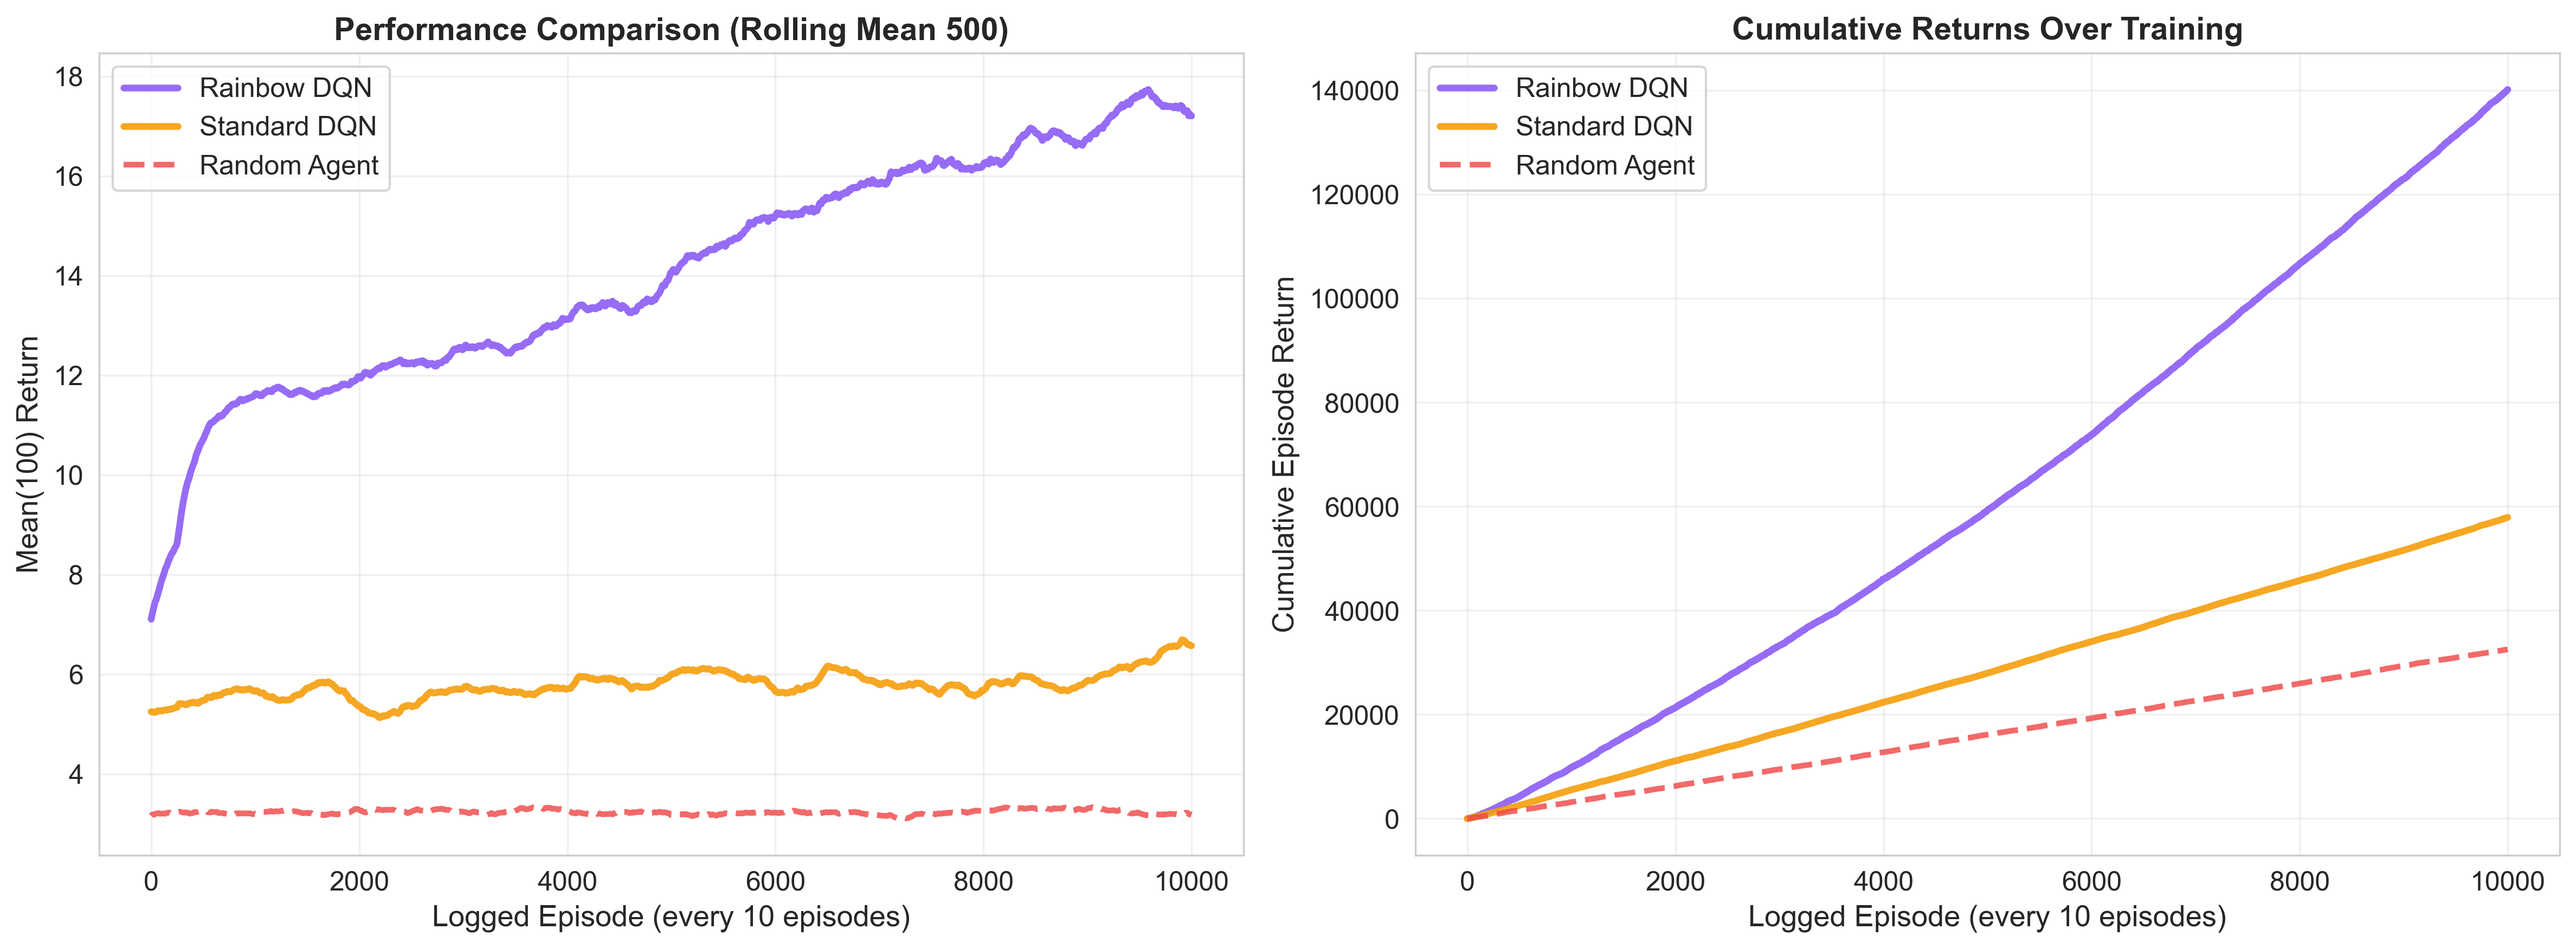
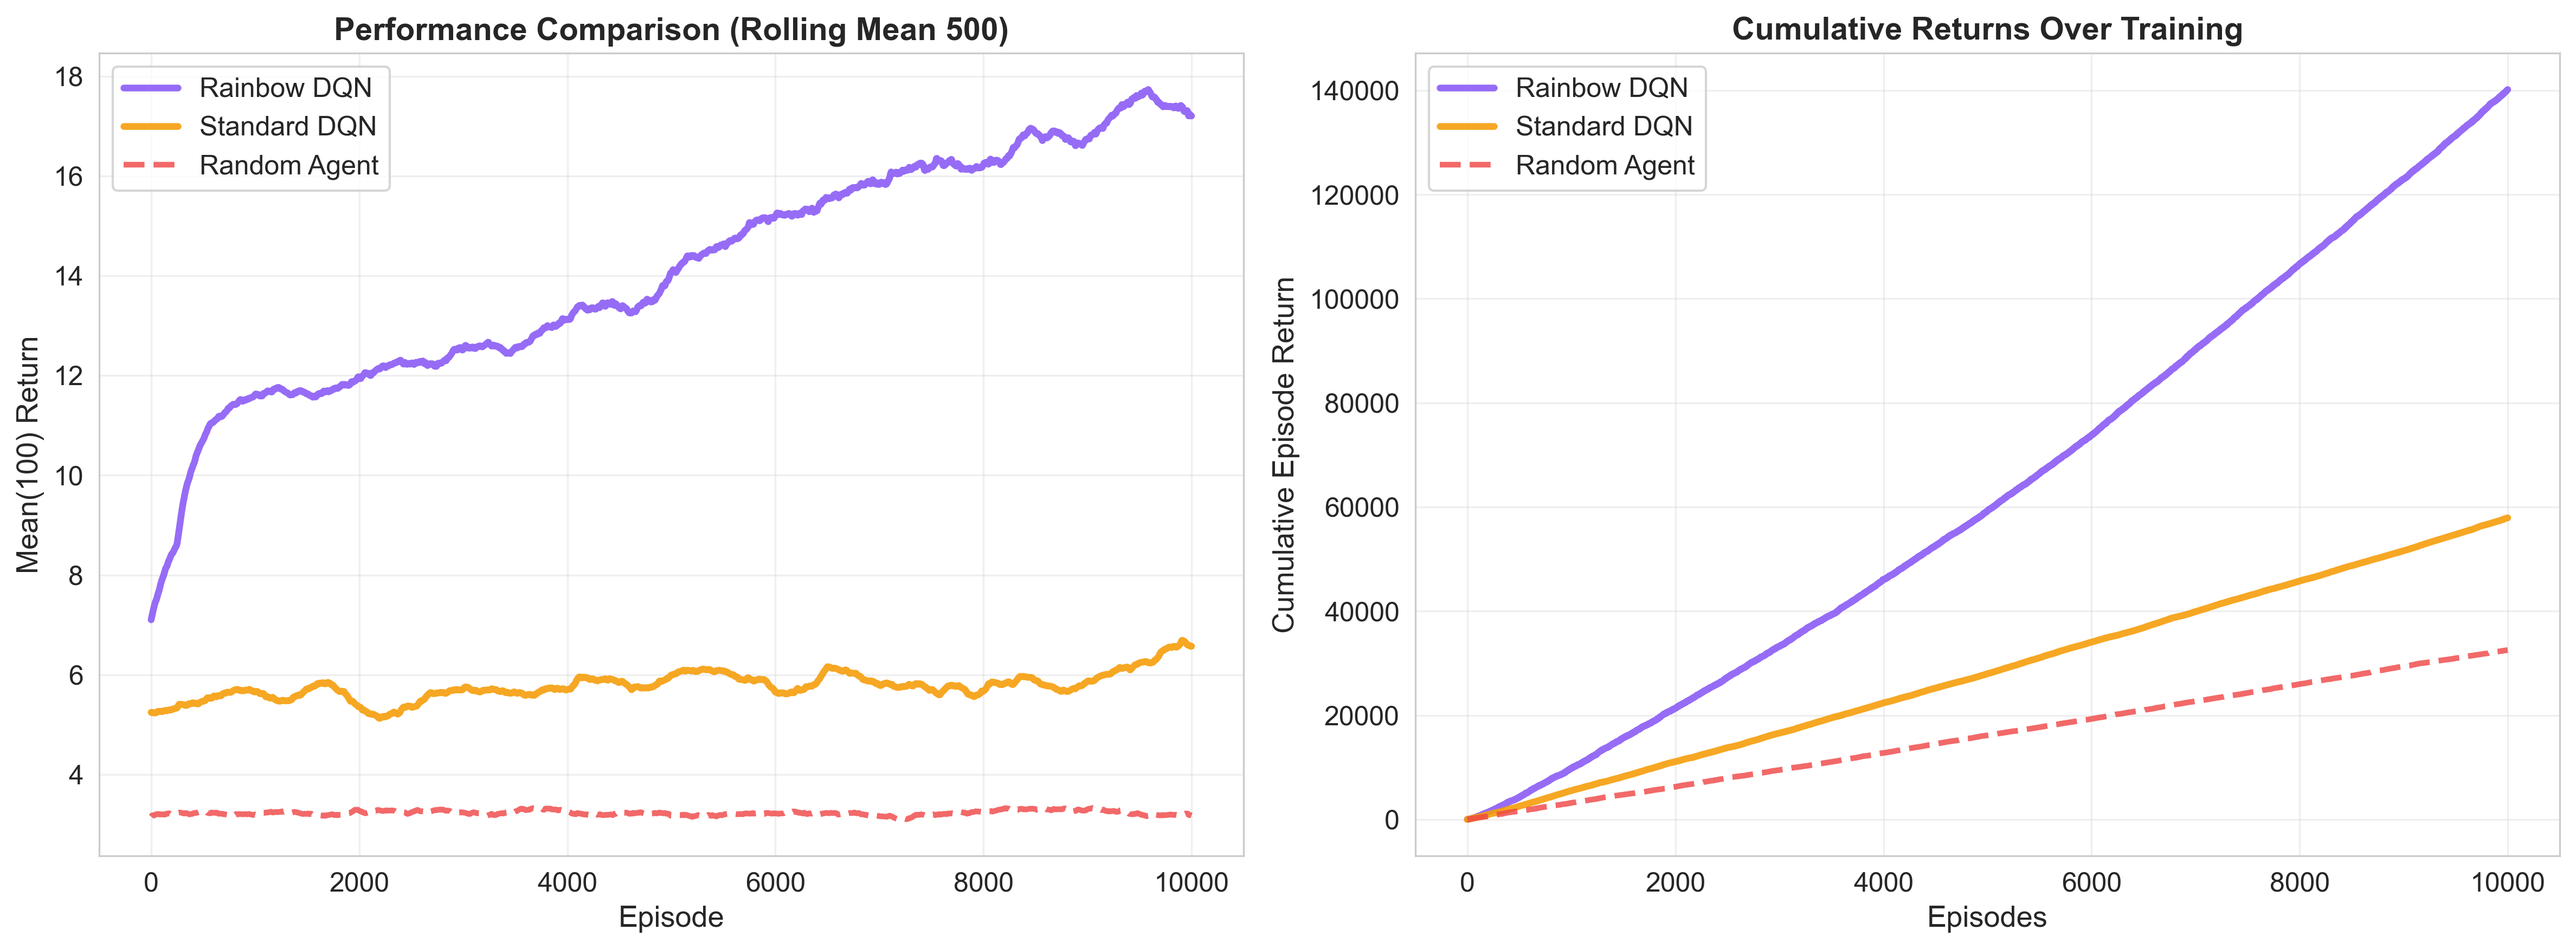
x axix label rename

Changed region(s): [[0.6852, 0.9555, 0.8721, 0.9863], [0.1557, 0.9555, 0.3426, 0.9863], [0.5918, 0.8322, 0.6229, 0.863]]

diff --git a/comprehensive_analysis.py b/comprehensive_analysis.py
@@ -228,7 +228,7 @@ def analyze_all_agents(data):
         ax1.plot(episodes, random_smooth,
                 label='Random Agent', color=COLORS['random'], linewidth=2.5, linestyle='--', alpha=0.8)
     
-    ax1.set_xlabel('Logged Episode (every 10 episodes)', fontsize=13)
+    ax1.set_xlabel('Episode', fontsize=13)
     ax1.set_ylabel('Mean(100) Return', fontsize=13)
     ax1.set_title('Performance Comparison (Rolling Mean 500)', fontsize=14, fontweight='bold')
     ax1.legend(fontsize=12)
@@ -252,7 +252,7 @@ def analyze_all_agents(data):
         ax2.plot(episodes, cumsum_random.values,
                 label='Random Agent', color=COLORS['random'], linewidth=2.5, linestyle='--', alpha=0.8)
     
-    ax2.set_xlabel('Logged Episode (every 10 episodes)', fontsize=13)
+    ax2.set_xlabel('Episodes', fontsize=13)
     ax2.set_ylabel('Cumulative Episode Return', fontsize=13)
     ax2.set_title('Cumulative Returns Over Training', fontsize=14, fontweight='bold')
     ax2.legend(fontsize=12)
